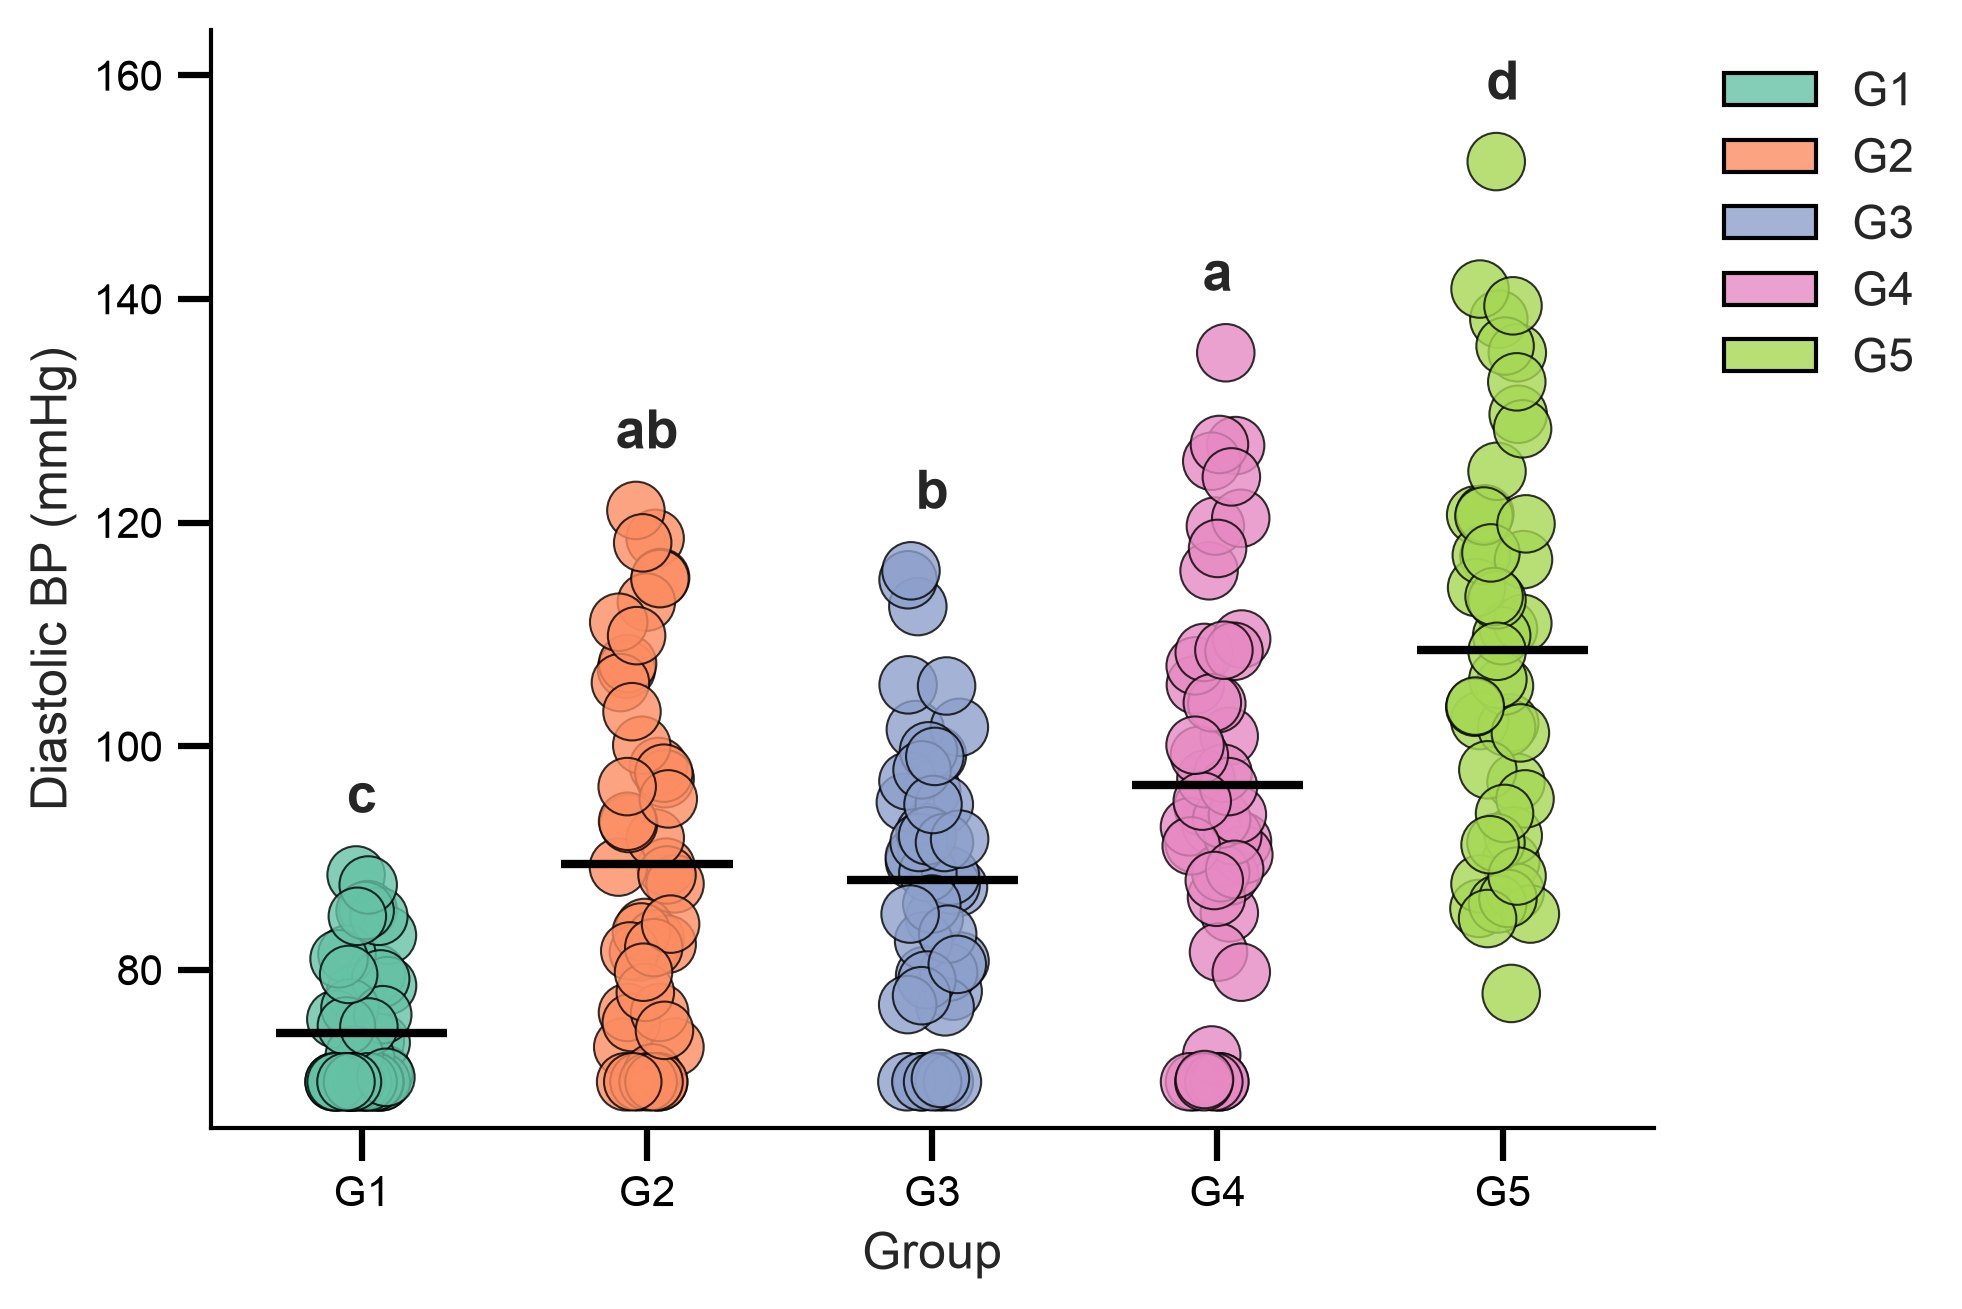
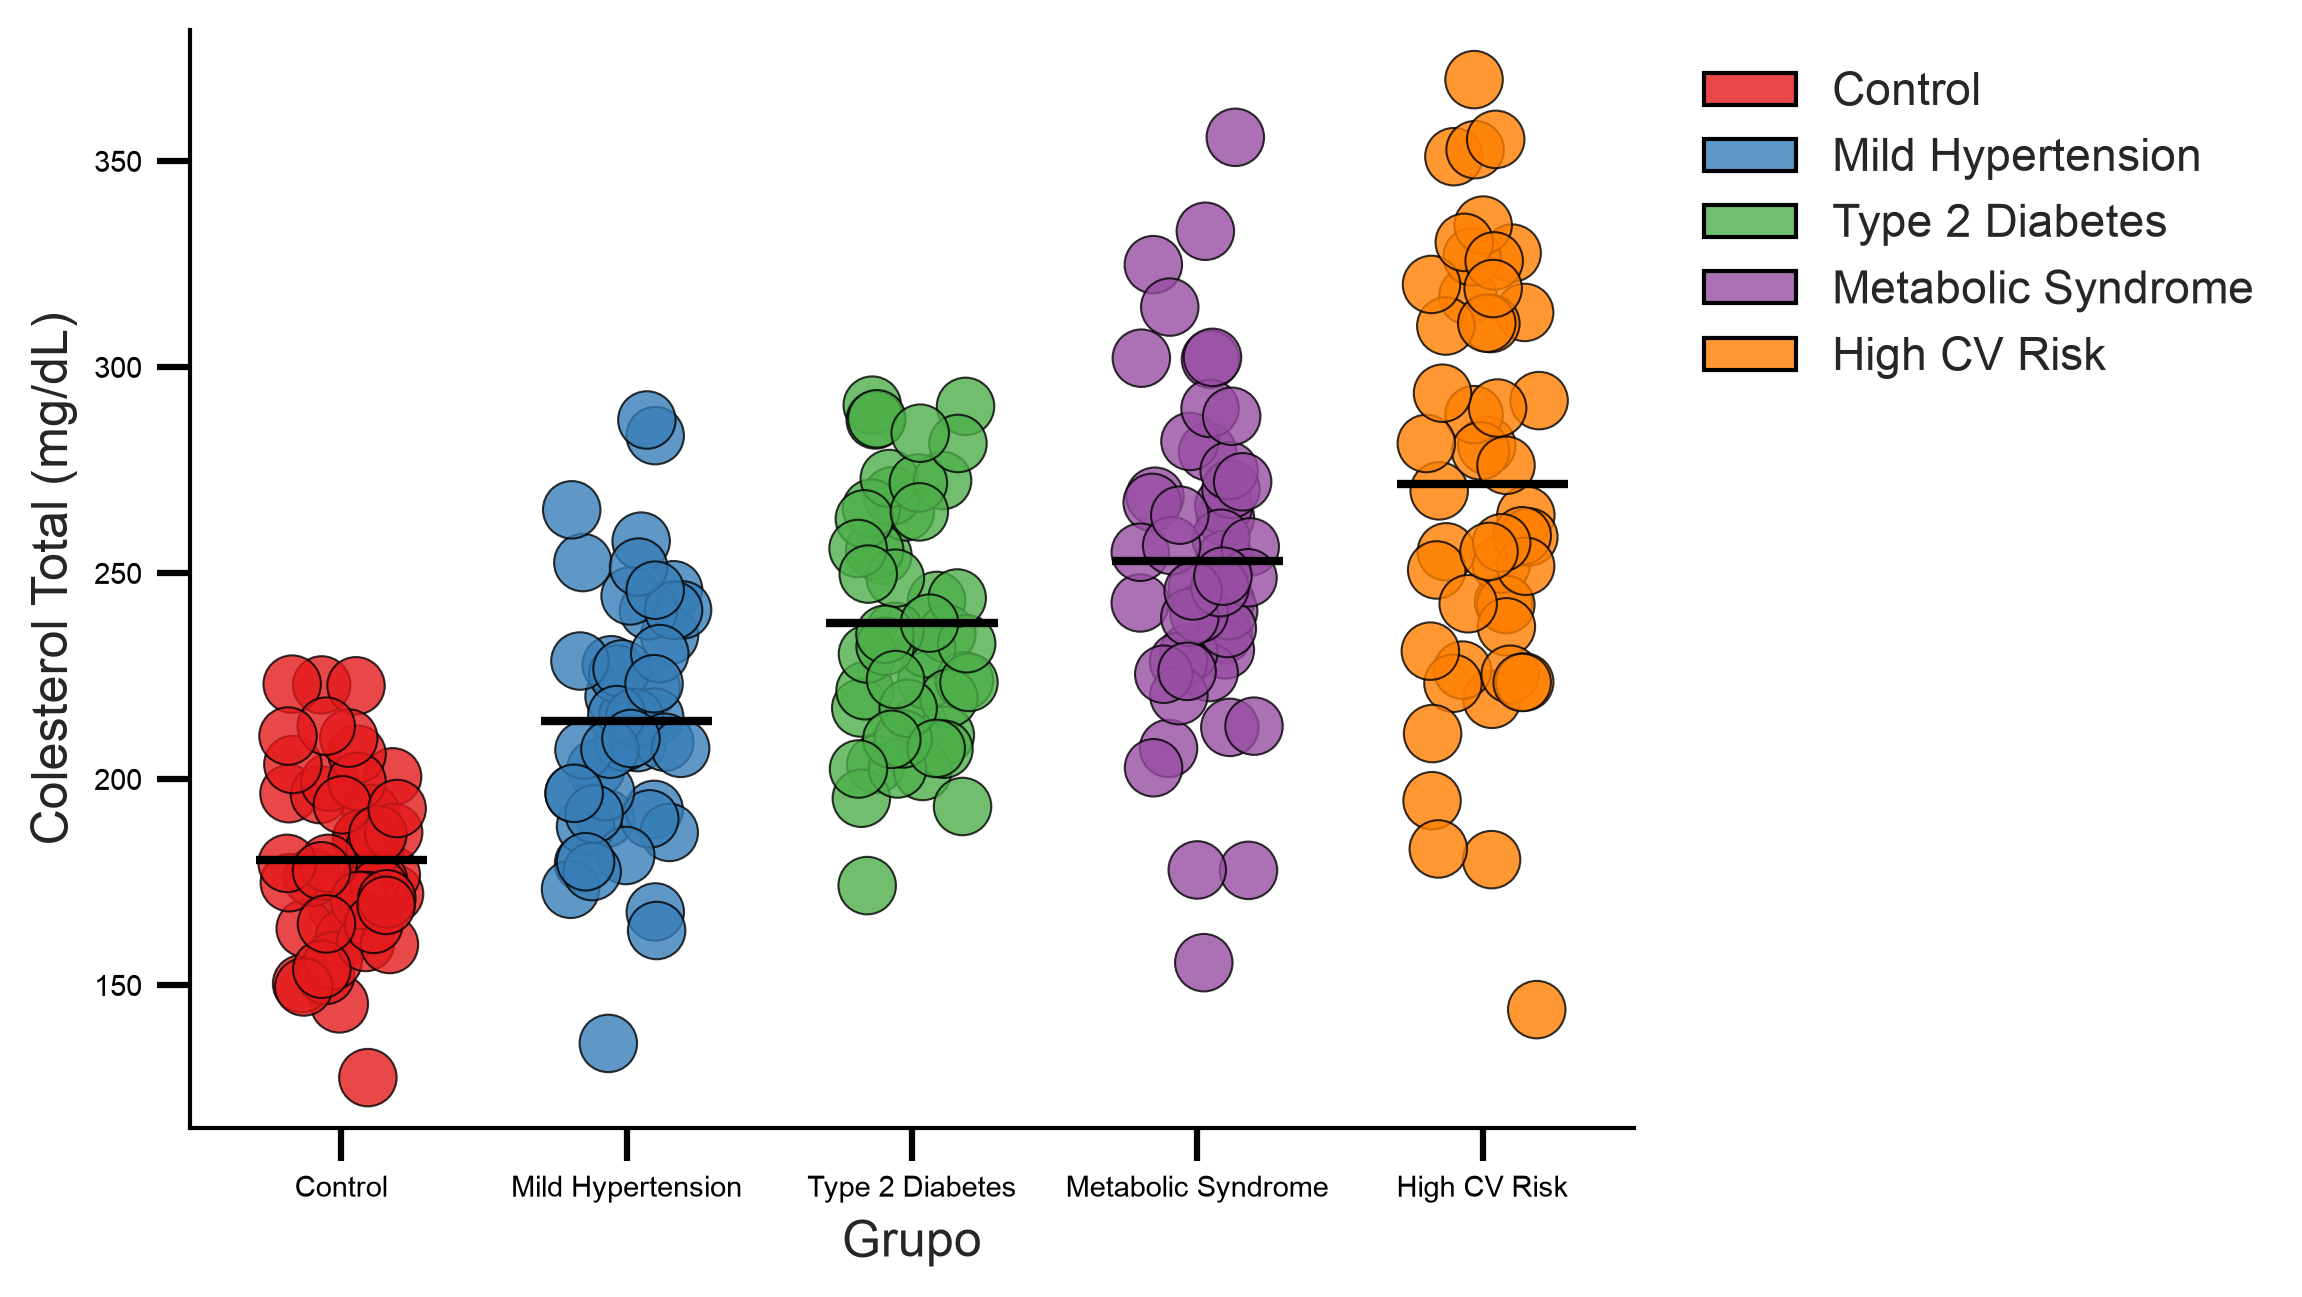
Use dot1.png for dot plot gallery figure

diff --git a/index.html b/index.html
@@ -346,7 +346,7 @@
     <figure class="g-item"><div class="g-media"><img src="assets/screenshots/more/histograma" alt="Histogram" data-full="assets/screenshots/more/histograma"><span class="g-zoom">⛶</span></div><figcaption>Histogram with density curve</figcaption></figure>
     <figure class="g-item"><div class="g-media"><img src="assets/screenshots/more/Boxplot1" alt="Box plot" data-full="assets/screenshots/more/Boxplot1"><span class="g-zoom">⛶</span></div><figcaption>Box plot by group</figcaption></figure>
     <figure class="g-item"><div class="g-media"><img src="assets/screenshots/more/regressao" alt="Regression plot" data-full="assets/screenshots/more/regressao"><span class="g-zoom">⛶</span></div><figcaption>Regression analysis</figcaption></figure>
-    <figure class="g-item"><div class="g-media"><img src="assets/screenshots/more/dotplot" alt="Dot plot" data-full="assets/screenshots/more/dotplot"><span class="g-zoom">⛶</span></div><figcaption>Dot plot with means</figcaption></figure>
+    <figure class="g-item"><div class="g-media"><img src="assets/screenshots/dot1.png" alt="Dot plot" data-full="assets/screenshots/dot1.png"><span class="g-zoom">⛶</span></div><figcaption>Dot plot with means</figcaption></figure>
     <figure class="g-item"><div class="g-media"><img src="assets/screenshots/more/cumulative" alt="Cumulative distribution plot" data-full="assets/screenshots/more/cumulative"><span class="g-zoom">⛶</span></div><figcaption>Cumulative distribution plot</figcaption></figure>
     <figure class="g-item"><div class="g-media"><img src="assets/screenshots/more/espaguete" alt="Spaghetti plot" data-full="assets/screenshots/more/espaguete"><span class="g-zoom">⛶</span></div><figcaption>Spaghetti plot of longitudinal data</figcaption></figure>
     <figure class="g-item"><div class="g-media"><img src="assets/screenshots/more/Boxplot2" alt="Box plot with jitter" data-full="assets/screenshots/more/Boxplot2"><span class="g-zoom">⛶</span></div><figcaption>Box plot with jitter</figcaption></figure>
